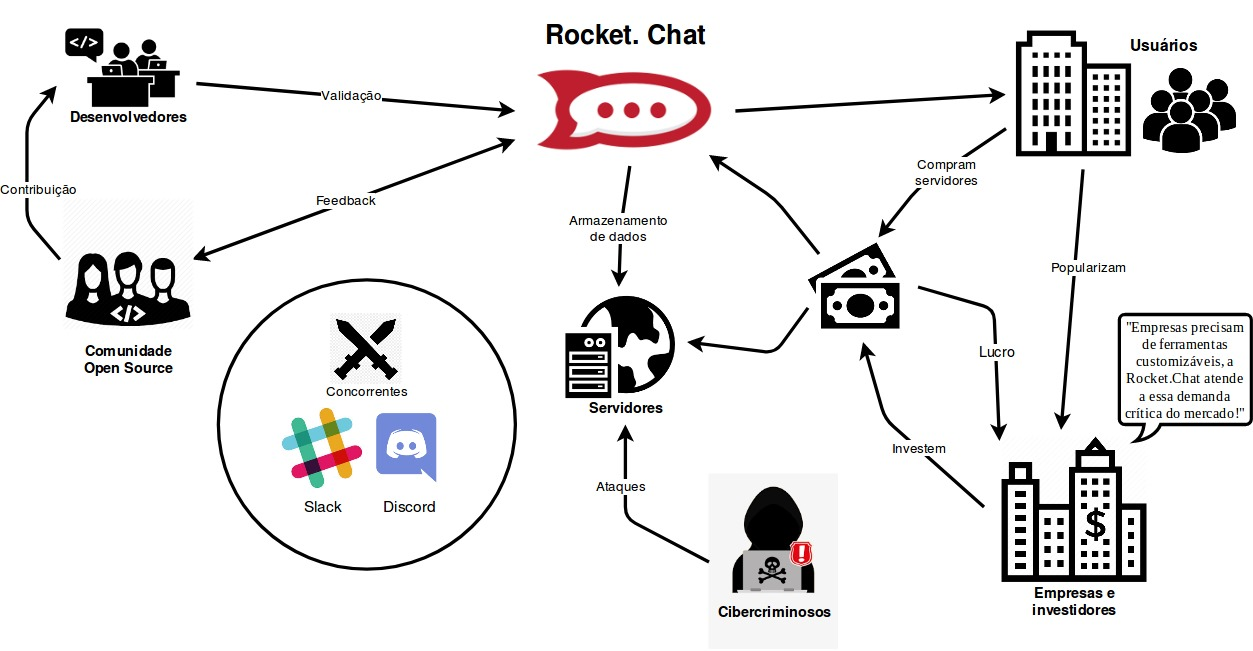
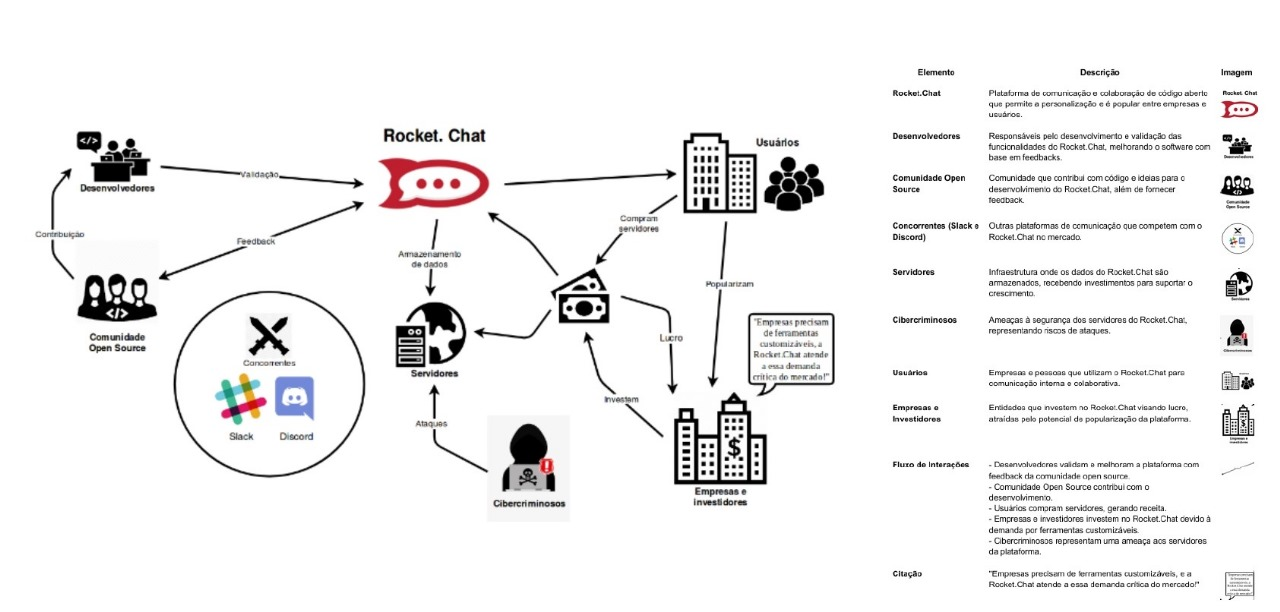
Rich Picture Samuel

diff --git a/docs/planejamento/aplicativosAvaliados.md b/docs/planejamento/aplicativosAvaliados.md
@@ -102,7 +102,7 @@ O **Signal** é um aplicativo de mensagens focado em privacidade e segurança, d
 O **Signal** é uma ótima escolha para aqueles que priorizam a privacidade e segurança em suas comunicações. A plataforma fornece uma experiência de uso que valoriza a liberdade do usuário, sem comprometer a proteção de dados pessoais e sem publicidade ou rastreamento, sendo um dos aplicativos de mensagens mais seguros e confiáveis disponíveis atualmente.
 
 <div style="text-align: center">
-<p>Imagem 1 - Rich Picture - Signal</p>
+<p>Imagem 2 - Rich Picture - Signal</p>
 </div>
 
 
@@ -136,7 +136,7 @@ O **Meu SUS Digital** é um aplicativo desenvolvido pelo Ministério da Saúde d
 O **Meu SUS Digital** busca democratizar o acesso à saúde, tornando os serviços mais acessíveis, transparentes e eficientes, simplificando o processo de utilização do SUS para milhões de brasileiros.
 
 <div style="text-align: center">
-<p>Imagem 1 - Rich Picture - Meu SUS Digital</p>
+<p>Imagem 3 - Rich Picture - Meu SUS Digital</p>
 </div>
 
 ![Rich Picture - Meu SUS Digital](imagens/rpgenilson.jpg)
@@ -168,6 +168,15 @@ O **Rocket.Chat** é uma plataforma de comunicação colaborativa de código abe
 8. **Controle de Administração**: Os administradores têm acesso a um painel completo de gerenciamento de usuários, permissões e configurações, além de ferramentas de monitoramento e relatórios, garantindo que a plataforma seja gerida de maneira eficiente e segura.
 
 O **Rocket.Chat** é ideal para empresas e equipes que buscam uma solução de comunicação flexível, escalável e segura, oferecendo uma plataforma completa de mensagens, chamadas e colaboração, com o benefício adicional de ser totalmente personalizável e controlada pela própria organização.
+
+
+<div style="text-align: center">
+<p>Imagem 4 - Rich Picture - Rocket Chat</p>
+</div>
+
+![Rich Picture - Rocket Chat](imagens/rpsamuel.jpg)
+
+<p style="text-align: center;">Fonte - <a href="https://github.com/SamuelRicosta">Samuel Ribeiro</a></p>
 
 ## Bibliografia
 
